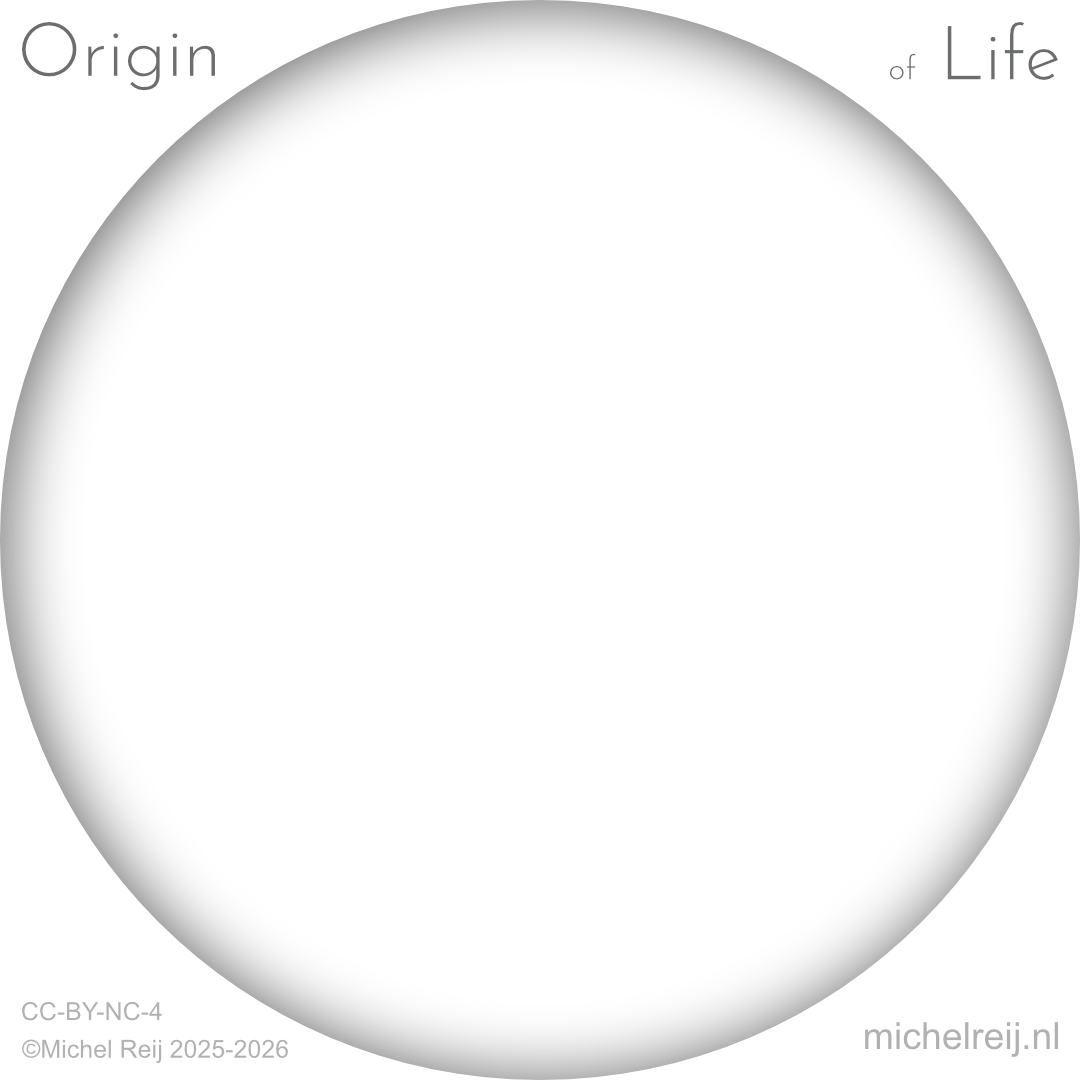
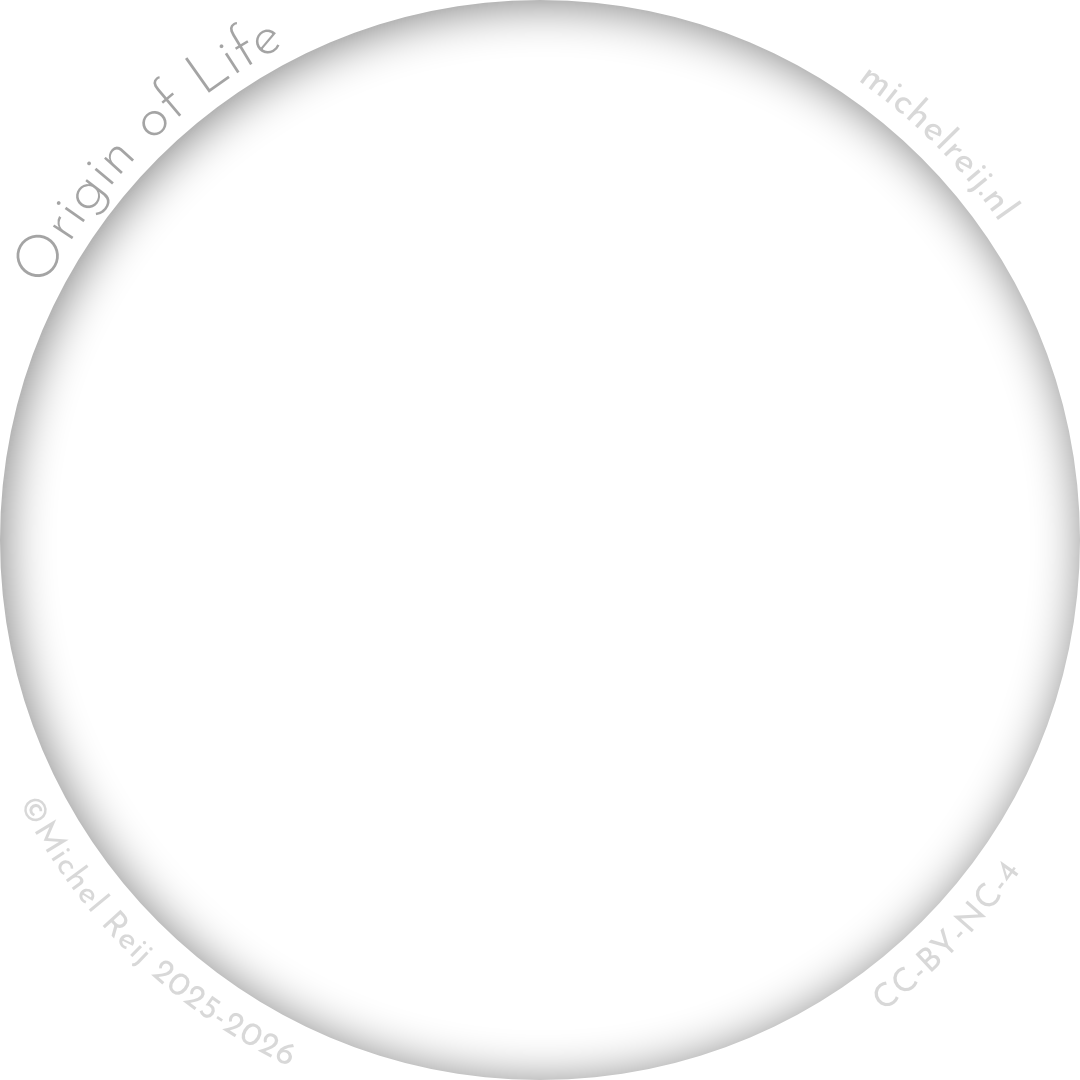
feat: pause/play knop + deploy verbeteringen
- Pause/play knop toegevoegd (P-toets) op beide pagina's: links-onder op index, links-onder op embed
- S en V sneltoetsen ook beschikbaar op embed-pagina
- Fix: pressure als eerste naar engine gestuurd zodat is_wlp correct staat vóór temp/ph/elec
- deploy.sh: kopieert automatisch nieuwere assets/images naar public/ voor upload
- WebGPU + WASM feature detection vóór laden WASM in embed
- Nieuwe mask en overlay PNG's

diff --git a/src/embed.ts b/src/embed.ts
@@ -198,7 +198,7 @@ const EMBED_CSS = `
     pointer-events: none;
     user-select: none;
 }
-#ol-screenshot-btn, #ol-record-btn {
+#ol-screenshot-btn, #ol-record-btn, #ol-pause-btn {
     position: absolute;
     bottom: 10px;
     background: none;
@@ -218,16 +218,17 @@ const EMBED_CSS = `
 }
 #ol-screenshot-btn { right: 10px; }
 #ol-record-btn     { right: 58px; }
-#ol-screenshot-btn .ol-material-icon, #ol-record-btn .ol-material-icon {
+#ol-pause-btn      { left: 10px; }
+#ol-screenshot-btn .ol-material-icon, #ol-record-btn .ol-material-icon, #ol-pause-btn .ol-material-icon {
     font-size: 32px;
     line-height: 1;
 }
-#ol-screenshot-btn:hover, #ol-record-btn:hover { opacity: 1; }
-#ol-screenshot-btn:active, #ol-record-btn:active { transform: scale(0.88); }
+#ol-screenshot-btn:hover, #ol-record-btn:hover, #ol-pause-btn:hover { opacity: 1; }
+#ol-screenshot-btn:active, #ol-record-btn:active, #ol-pause-btn:active { transform: scale(0.88); }
 #ol-record-btn.recording { color: #ff5555; opacity: 1; }
-#ol-screenshot-btn:focus, #ol-record-btn:focus { outline: none; }
+#ol-screenshot-btn:focus, #ol-record-btn:focus, #ol-pause-btn:focus { outline: none; }
 @media (max-width: 480px) {
-    #ol-hint-zoom, #ol-hint-pan, #ol-screenshot-btn, #ol-record-btn { display: none; }
+    #ol-hint-zoom, #ol-hint-pan, #ol-screenshot-btn, #ol-record-btn, #ol-pause-btn { display: none; }
 }
 canvas#ol-canvas {
     background-color: #0004;
@@ -418,6 +419,7 @@ function buildDOM() {
             <div id="ol-status">${t.loading}</div>
             <div id="ol-hint-zoom">${t.hintZoom}</div>
             <div id="ol-hint-pan">${t.hintPan}</div>
+            <button id="ol-pause-btn" title="Pause / Play (P)"><span class="ol-material-icon">pause</span></button>
             <button id="ol-screenshot-btn" title="${t.titleScreenshot}"><span class="ol-material-icon">photo_camera</span></button>
             <button id="ol-record-btn" title="${t.titleRecord}"><span class="ol-material-icon">videocam</span></button>
             <div id="ol-screenshot-flash"></div>
@@ -456,6 +458,7 @@ class EmbedApp {
     private canvas: HTMLCanvasElement | null = null;
     private animationId: number | null = null;
     private engineBusy = false;
+    private isPaused = false;
     private lastTime = 0;
     private activeHypothesis: Hypothesis = "htv";
 
@@ -534,6 +537,24 @@ class EmbedApp {
         this.panX = this.virtualWorldWidth / 2;
         this.panY = this.virtualWorldHeight / 2;
 
+        // Feature detection: skip loading WASM if browser lacks WebAssembly or WebGPU
+        if (typeof WebAssembly === "undefined") {
+            console.warn("Origin of Life: WebAssembly not supported.");
+            this.setStatus("Your browser does not support WebAssembly.");
+            return;
+        }
+        if (!navigator.gpu) {
+            console.warn("Origin of Life: WebGPU not supported.");
+            this.setStatus("Your browser does not support WebGPU.");
+            return;
+        }
+        const gpuAdapter = await navigator.gpu.requestAdapter();
+        if (!gpuAdapter) {
+            console.warn("Origin of Life: No WebGPU adapter available.");
+            this.setStatus("No compatible GPU found for WebGPU.");
+            return;
+        }
+
         const wasmUrl = `${getScriptBase()}pkg/particle_life_wasm_bg.wasm?v=${Date.now()}`;
 
         try {
@@ -594,6 +615,17 @@ class EmbedApp {
     private wireSliders() {
         // Bepaal hypothese vroeg zodat temp/ph/elec de juiste storage-key laden
         this.activeHypothesis = loadInitialHypothesis(this.hypothesisKeys);
+
+        // Stuur pressure als eerste naar de engine zodat is_wlp correct staat
+        // vóór temp/ph/elec worden berekend — anders gebruikt apply_temperature de verkeerde hypothese
+        if (this.engine) {
+            const presSliderInit = document.getElementById("ol-pres") as HTMLInputElement | null;
+            if (presSliderInit) {
+                const pv = parseFloat(presSliderInit.value);
+                this.engine.set_pressure(pv);
+                this.engine.set_particle_count_from_pressure(pv);
+            }
+        }
 
         // Gradients direct toepassen als we in wlp starten — anders blijven ze op htv
         if (this.activeHypothesis === "wlp") {
@@ -1007,13 +1039,31 @@ class EmbedApp {
         );
     }
 
+    private togglePause() {
+        this.isPaused = !this.isPaused;
+        const btn = document.getElementById("ol-pause-btn");
+        if (btn) btn.innerHTML = `<span class="ol-material-icon">${this.isPaused ? "play_arrow" : "pause"}</span>`;
+    }
+
     private wireCapture() {
+        document
+            .getElementById("ol-pause-btn")
+            ?.addEventListener("click", () => this.togglePause());
         document
             .getElementById("ol-screenshot-btn")
             ?.addEventListener("click", () => this.captureScreenshot());
         document
             .getElementById("ol-record-btn")
             ?.addEventListener("click", () => this.toggleRecording());
+
+        document.addEventListener("keydown", (e: KeyboardEvent) => {
+            const el = document.activeElement;
+            if (el instanceof HTMLTextAreaElement ||
+                (el instanceof HTMLInputElement && el.type !== "range")) return;
+            if (e.key === "p" || e.key === "P") this.togglePause();
+            if (e.key === "s" || e.key === "S") this.captureScreenshot();
+            if (e.key === "v" || e.key === "V") this.toggleRecording();
+        });
     }
 
     private captureScreenshot() {
@@ -1077,7 +1127,7 @@ class EmbedApp {
             const dt = Math.min((now - this.lastTime) / 1000, 0.05);
             this.lastTime = now;
 
-            if (this.engine && !this.engineBusy) {
+            if (!this.isPaused && this.engine && !this.engineBusy) {
                 try {
                     this.engine.update_frame(dt);
                     this.engine.render();

diff --git a/src/styles/main.scss b/src/styles/main.scss
@@ -359,6 +359,34 @@ input[type="button"] {
     }
 }
 
+#pause-btn {
+    position       : absolute;
+    bottom         : 10px;
+    left           : 106px;
+    background     : none;
+    border         : none;
+    color          : var(--accent-color);
+    font-size      : 0;
+    width          : 40px;
+    height         : 40px;
+    cursor         : pointer;
+    display        : flex;
+    align-items    : center;
+    justify-content: center;
+    transition     : opacity 0.15s, transform 0.1s;
+    z-index        : 10;
+    opacity        : 0.85;
+
+    .material-symbols-outlined {
+        font-size  : 32px;
+        line-height: 1;
+    }
+
+    &:hover  { opacity: 1; }
+    &:active { transform: scale(0.88); }
+    &:focus  { outline: none; }
+}
+
 #screenshot-btn {
     position       : absolute;
     bottom         : 10px;

diff --git a/src/main.ts b/src/main.ts
@@ -35,6 +35,7 @@ class App {
     private recordedChunks: Blob[] = [];
     private isRecording = false;
     private isAudioOn = false;
+    private isPaused = false;
     // Guard against wasm-bindgen re-entrancy: async check_super_lightning holds a
     // &mut self borrow for the GPU readback; all other &mut self calls must be
     // deferred until it completes.
@@ -411,7 +412,12 @@ class App {
             .getElementById("circle-btn")
             ?.addEventListener("click", () => this.toggleCircleCanvas());
 
-        // Keyboard shortcuts: S = screenshot, V = toggle video recording, A = audio toggle
+        // Pause button
+        document
+            .getElementById("pause-btn")
+            ?.addEventListener("click", () => this.togglePause());
+
+        // Keyboard shortcuts: P = pause, S = screenshot, V = video, A = audio
         document.addEventListener("keydown", (e: KeyboardEvent) => {
             const el = document.activeElement;
             if (
@@ -419,6 +425,7 @@ class App {
                 (el instanceof HTMLInputElement && el.type !== "range")
             )
                 return;
+            if (e.key === "p" || e.key === "P") this.togglePause();
             if (e.key === "a" || e.key === "A") this.toggleAudio();
             if (e.key === "s" || e.key === "S") this.triggerScreenshot();
             if (e.key === "v" || e.key === "V") this.toggleRecording();
@@ -462,7 +469,7 @@ class App {
                 this.checkLightningStatus();
             }
 
-            if (this.engine && !this.engineBusy) {
+            if (!this.isPaused && this.engine && !this.engineBusy) {
                 try {
                     // Apply relative joystick panning before the simulation step
                     updateJoystickPan(deltaTime);
@@ -502,6 +509,12 @@ class App {
         if (canvas) canvas.style.borderRadius = this.isCircleCanvas ? "50%" : "0";
         const icon = document.getElementById("circle-btn")?.querySelector(".material-symbols-outlined");
         if (icon) icon.textContent = this.isCircleCanvas ? "check_circle" : "cancel";
+    }
+
+    private togglePause() {
+        this.isPaused = !this.isPaused;
+        const icon = document.getElementById("pause-btn")?.querySelector(".material-symbols-outlined");
+        if (icon) icon.textContent = this.isPaused ? "play_arrow" : "pause";
     }
 
     private toggleAudio() {

diff --git a/src/index.html b/src/index.html
@@ -54,6 +54,9 @@
             </div>
             <div id="canvasContainer">
                 <canvas id="canvas"></canvas>
+                <button id="pause-btn" title="Pause / Play (P)">
+                    <span class="material-symbols-outlined">pause</span>
+                </button>
                 <button id="audio-btn" title="Audio aan/uit (A)">
                     <span class="material-symbols-outlined">volume_off</span>
                 </button>